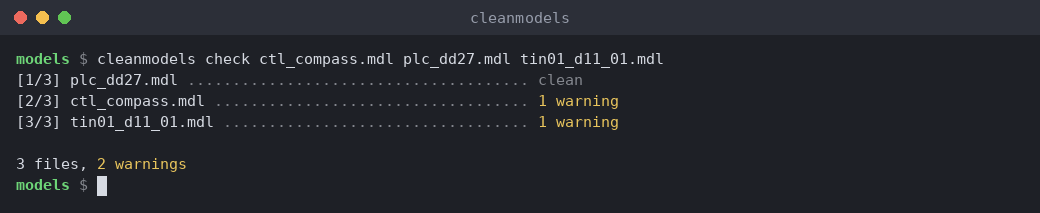
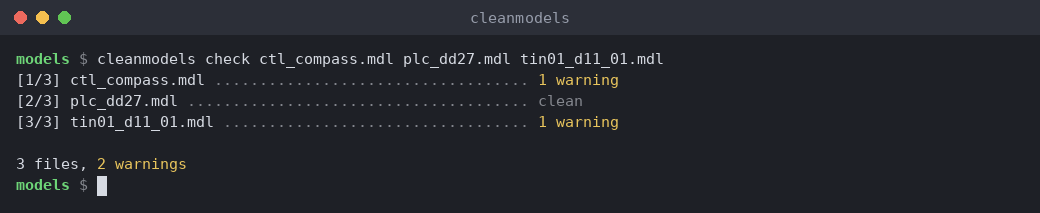
docs: re-take the CLI screenshots from the build the next release is cut from
All eleven were re-rendered from a build of main. Ten came out byte-identical to
the ones in the repo; compile-decompile.png now shows the new first line
('# Rewritten by cleanmodels'). The screenshots README names v4.2.1.

diff --git a/docs/screenshots/README.md b/docs/screenshots/README.md
@@ -1,10 +1,9 @@
 # Screenshots
 
-Images used in the README. They are renderings of real terminal output from cleanmodels v4.2.0
-(`compile-needs-output.png` shows the shorter hint added after it, in the next release):
-each command was run in a pseudo-terminal with colours on, and the resulting screen was drawn as a
-PNG. The title bar and the `models $` prompt are drawn by the script; the commands and everything
-they print are real.
+Images used in the README. They are renderings of real terminal output from cleanmodels v4.2.1, taken
+from the build the release was cut from: each command was run in a pseudo-terminal with colours on, and
+the resulting screen was drawn as a PNG. The title bar and the `models $` prompt are drawn by the script;
+the commands and everything they print are real.
 
 The models are files from `tests/fixtures/oracle/ascii`, plus a one-line text file standing in for a
 non-model. To redo one, run the command in a terminal of about 100 to 120 columns and capture it; the
